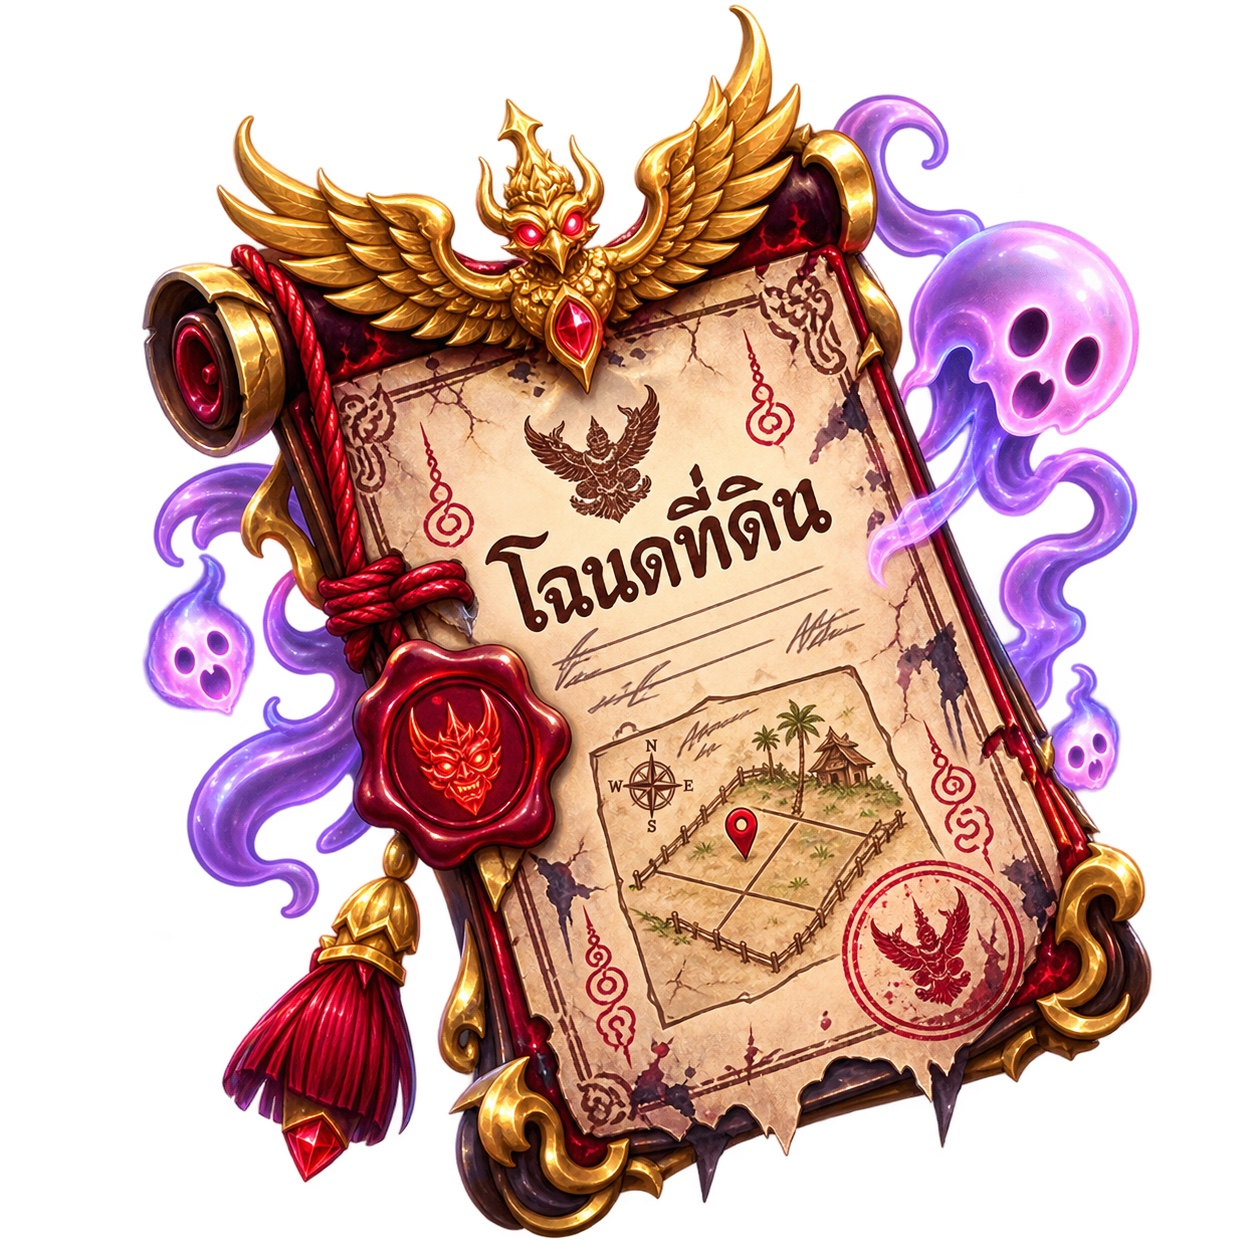
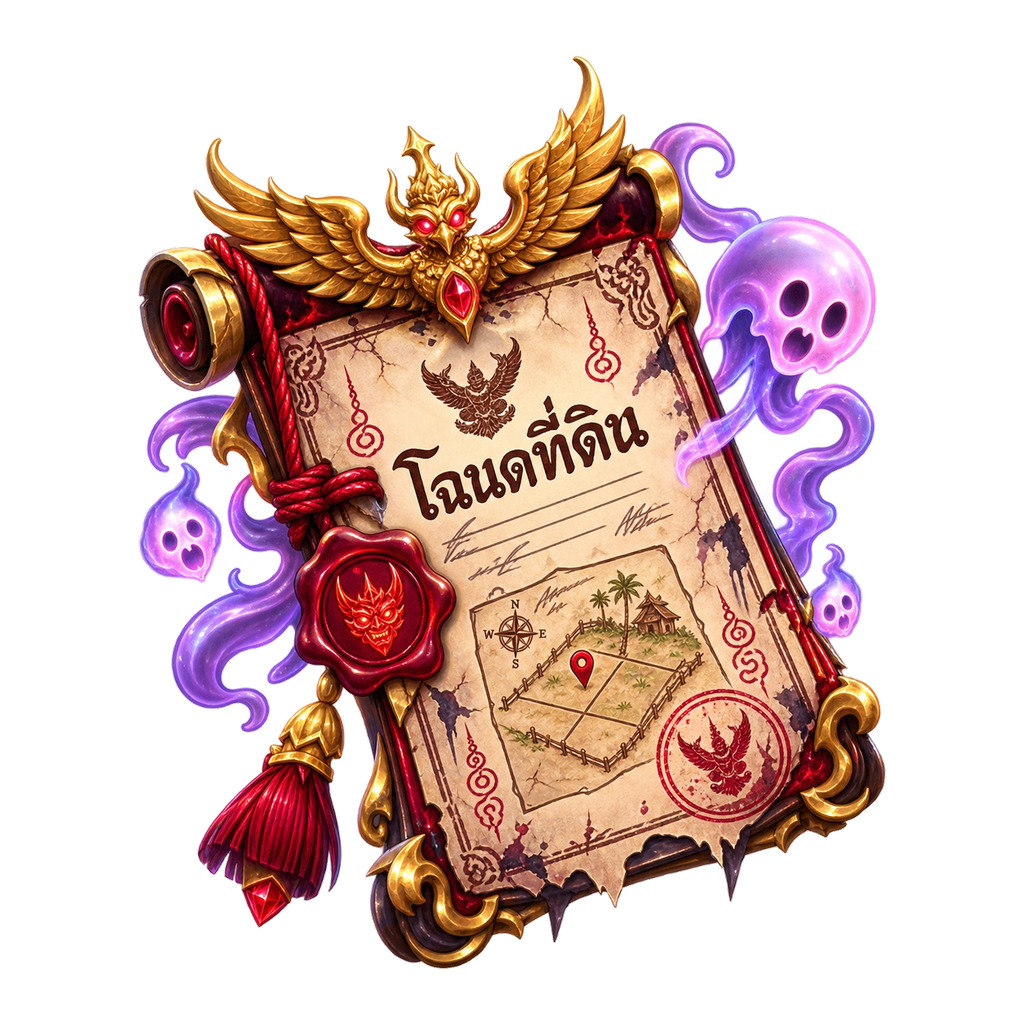
Add files via upload

diff --git a/game.js b/game.js
@@ -11500,7 +11500,7 @@ console.info("YAINOO CURRENT 20260814 patch loaded");
   const DAY=24*60*60*1000, HOUR=60*60*1000, MIN=60*1000;
   const SATAN_KEY="satanWings", DEED_KEY="landDeed", ANGEL_KEY="angelWingCapsule";
   const SATAN_ITEM={name:"ปีกซาตาน",image:"item-satan-wings.png?v=1",price:99};
-  const DEED_ITEM={name:"โฉนดที่ดินขอคืนวัดได้บ่",image:"item-land-deed.png?v=1",price:129};
+  const DEED_ITEM={name:"โฉนดที่ดินขอคืนวัดได้บ่",image:"land-deed.png?v=3",price:129};
   const DAILY_KEY=()=>currentBangkokDateKey();
   const rand=(a,b)=>Math.floor(Math.random()*(b-a+1))+a;
   function esc(s){return typeof safeHtml==="function"?safeHtml(String(s??"")):String(s??"")}
@@ -11614,7 +11614,7 @@ console.info("YAINOO CURRENT 20260814 patch loaded");
   }
   async function useDeed(index){
     if(!visitContext)return;const count=Number((ownState||state)?.specials?.[DEED_KEY])||0;if(!count)return message("คุณไม่มีโฉนดที่ดิน","ไปซื้อที่ร้านค้า → ของพิเศษก่อนนะคะ");
-    $("modalContent").innerHTML=`<section class="feature-panel ynu-confirm"><img src="${DEED_ITEM.image}" alt="โฉนด"><h2>${DEED_ITEM.name}</h2><p>ใช้โฉนด Take Over แปลงนี้ 2 ชั่วโมงหรือไม่</p><div><button id="ynuDeedYes">ใช้โฉนด</button><button id="ynuDeedNo">ยกเลิก</button></div></section>`;$("ynuDeedNo").onclick=closeModal;$("ynuDeedYes").onclick=async()=>{try{const {db,fs}=await getFirebaseContext(),gRef=fs.doc(db,"gardens",visitContext.memberKey),sRef=fs.doc(db,"saves",currentMemberKey);let next,plots;await fs.runTransaction(db,async tx=>{const [g,o]=await Promise.all([tx.get(gRef),tx.get(sRef)]);if(!g.exists()||!o.exists())throw new Error("ข้อมูลไม่พร้อม");const own=normalizeState(o.data(),currentMember);if(Number(own.specials[DEED_KEY]||0)<1)throw new Error("คุณไม่มีโฉนดที่ดิน");plots=(g.data().plots||[]).map(normalizePlot);while(plots.length<PLOT_COUNT)plots.push(emptyPlot());const now=NOW(),active=plots.filter(p=>p?.takeover?.by===currentMemberKey&&Number(p.takeover.until)>now).length;if(active>=3)throw new Error("คุณ Take Over ฟาร์มของเพื่อนคนนี้ครบ 3 แปลงแล้ว");const p=plots[index];if(p?.crop||takeoverActive(p))throw new Error("ใช้ได้เฉพาะแปลงว่างเท่านั้น");plots[index]={...emptyPlot(),takeover:{by:currentMemberKey,byName:currentProfileDisplayName(),until:now+2*HOUR}};own.specials[DEED_KEY]-=1;next=own;tx.set(gRef,{memberKey:visitContext.memberKey,displayName:visitContext.name,plots:cloneData(plots),updatedAt:fs.serverTimestamp()},{merge:true});tx.set(sRef,{...cloneData(own),activeSessionId:cloudSessionId,updatedAt:fs.serverTimestamp()},{merge:false})});Y26_applyOwnState(next);state.plots=plots.map(normalizePlot);closeModal();draw();showWeatherToast("📜 Take Over แปลงนี้ 2 ชั่วโมงแล้ว") }catch(e){message("ใช้โฉนดไม่ได้",e.message||"กรุณาลองใหม่")}};openModal();
+    $("modalContent").innerHTML=`<section class="feature-panel ynu-confirm ynu-deed-confirm"><img class="ynu-deed-preview" src="${DEED_ITEM.image}" alt="โฉนด"><h2>${DEED_ITEM.name}</h2><p>ใช้โฉนด Take Over แปลงนี้ 2 ชั่วโมงหรือไม่</p><div><button id="ynuDeedYes">ใช้โฉนด</button><button id="ynuDeedNo">ยกเลิก</button></div></section>`;$("ynuDeedNo").onclick=closeModal;$("ynuDeedYes").onclick=async()=>{try{const {db,fs}=await getFirebaseContext(),gRef=fs.doc(db,"gardens",visitContext.memberKey),sRef=fs.doc(db,"saves",currentMemberKey);let next,plots;await fs.runTransaction(db,async tx=>{const [g,o]=await Promise.all([tx.get(gRef),tx.get(sRef)]);if(!g.exists()||!o.exists())throw new Error("ข้อมูลไม่พร้อม");const own=normalizeState(o.data(),currentMember);if(Number(own.specials[DEED_KEY]||0)<1)throw new Error("คุณไม่มีโฉนดที่ดิน");plots=(g.data().plots||[]).map(normalizePlot);while(plots.length<PLOT_COUNT)plots.push(emptyPlot());const now=NOW(),active=plots.filter(p=>p?.takeover?.by===currentMemberKey&&Number(p.takeover.until)>now).length;if(active>=3)throw new Error("คุณ Take Over ฟาร์มของเพื่อนคนนี้ครบ 3 แปลงแล้ว");const p=plots[index];if(p?.crop||takeoverActive(p))throw new Error("ใช้ได้เฉพาะแปลงว่างเท่านั้น");plots[index]={...emptyPlot(),takeover:{by:currentMemberKey,byName:currentProfileDisplayName(),until:now+2*HOUR}};own.specials[DEED_KEY]-=1;next=own;tx.set(gRef,{memberKey:visitContext.memberKey,displayName:visitContext.name,plots:cloneData(plots),updatedAt:fs.serverTimestamp()},{merge:true});tx.set(sRef,{...cloneData(own),activeSessionId:cloudSessionId,updatedAt:fs.serverTimestamp()},{merge:false})});Y26_applyOwnState(next);state.plots=plots.map(normalizePlot);closeModal();draw();showWeatherToast("📜 Take Over แปลงนี้ 2 ชั่วโมงแล้ว") }catch(e){message("ใช้โฉนดไม่ได้",e.message||"กรุณาลองใหม่")}};openModal();
   }
 
   async function takeoverWater(index){

diff --git a/style.css b/style.css
@@ -4151,3 +4151,148 @@ html.standalone-app .sprinkler-button{translate:0 var(--standalone-safe-top)}htm
 
 /* ถ้าเซิร์ฟเวอร์ยังมีไฟล์ผลแข่งเป็น JPG ให้พื้นขาวกลืนกับแผงแทนการเห็นสี่เหลี่ยมขาว */
 .ynu-arena-status-icon img[src*=".jpg"]{mix-blend-mode:multiply!important}
+
+
+/* =====================================================================
+   TAKE OVER HOTFIX — compact modal + true transparent deed icon
+   ===================================================================== */
+
+/* ไอคอนโฉนดบนแปลง: ขนาดมาตรฐานเดียวกับบัวรดน้ำ/หนอน */
+.ynu-deed-overlay,
+.status-badge.ynu-deed-overlay{
+  right:1%!important;
+  top:3%!important;
+  width:clamp(30px,7.2vw,55px)!important;
+  height:clamp(30px,7.2vw,55px)!important;
+  max-width:55px!important;
+  max-height:55px!important;
+  object-fit:contain!important;
+  object-position:center!important;
+  padding:0!important;
+  margin:0!important;
+  border:0!important;
+  border-radius:0!important;
+  background:transparent!important;
+  box-shadow:none!important;
+  filter:drop-shadow(0 4px 5px rgba(38,18,45,.52))
+         drop-shadow(0 1px 1px rgba(255,231,174,.34))!important;
+}
+
+/* รูปโฉนดในหน้าต่างยืนยัน: ไม่มีกล่องขาว */
+.ynu-deed-confirm .ynu-deed-preview{
+  width:92px!important;
+  height:92px!important;
+  max-width:92px!important;
+  max-height:92px!important;
+  object-fit:contain!important;
+  background:transparent!important;
+  border:0!important;
+  border-radius:0!important;
+  box-shadow:none!important;
+  filter:drop-shadow(0 7px 7px rgba(49,24,57,.26))!important;
+}
+
+/* หน้าต่างจัดการแปลง Take Over ต้องกะทัดรัด ไม่กินเต็มจอ */
+.ynu-takeover-action{
+  width:min(420px,100%)!important;
+  max-width:420px!important;
+  max-height:72dvh!important;
+  margin:0 auto!important;
+  padding:4px 2px 2px!important;
+  overflow:auto!important;
+  text-align:center!important;
+}
+.ynu-takeover-action h2{
+  margin:2px 0 5px!important;
+  font-size:clamp(18px,5vw,24px)!important;
+}
+.ynu-takeover-action>p{
+  margin:3px auto 7px!important;
+  max-width:95%!important;
+  font-size:11px!important;
+  line-height:1.4!important;
+}
+.ynu-takeover-action .primary-spooky-action,
+.ynu-takeover-action .secondary-action{
+  width:min(270px,90%)!important;
+  min-height:36px!important;
+  margin:5px auto!important;
+  padding:7px 10px!important;
+  font-size:11px!important;
+  border-radius:12px!important;
+}
+
+/* ไอเท็มเร่งโต: ห้ามใช้ขนาดจริงของรูป เพราะจะขยายเต็ม modal */
+.ynu-take-boost-grid{
+  width:100%!important;
+  max-height:42dvh!important;
+  margin:7px auto 0!important;
+  padding:2px!important;
+  display:grid!important;
+  grid-template-columns:repeat(2,minmax(0,1fr))!important;
+  gap:7px!important;
+  overflow:auto!important;
+}
+.ynu-take-boost-grid>button{
+  min-width:0!important;
+  min-height:68px!important;
+  padding:6px!important;
+  border:1px solid rgba(172,126,79,.48)!important;
+  border-radius:12px!important;
+  background:linear-gradient(180deg,#fff6e9,#ead7c1)!important;
+  color:#4d3155!important;
+  display:flex!important;
+  align-items:center!important;
+  gap:6px!important;
+  text-align:left!important;
+  box-shadow:0 4px 10px rgba(52,28,60,.10)!important;
+  overflow:hidden!important;
+}
+.ynu-take-boost-grid>button>img{
+  flex:0 0 52px!important;
+  width:52px!important;
+  height:52px!important;
+  max-width:52px!important;
+  max-height:52px!important;
+  object-fit:contain!important;
+  object-position:center!important;
+  margin:0!important;
+  padding:0!important;
+  border:0!important;
+  border-radius:8px!important;
+  background:transparent!important;
+  filter:drop-shadow(0 3px 3px rgba(42,23,50,.20))!important;
+}
+.ynu-take-boost-grid>button>span{
+  min-width:0!important;
+  display:block!important;
+  font-size:10px!important;
+  font-weight:900!important;
+  line-height:1.25!important;
+}
+.ynu-take-boost-grid>button>span>small{
+  display:block!important;
+  margin-top:2px!important;
+  font-size:8px!important;
+  font-weight:700!important;
+  opacity:.82!important;
+  line-height:1.25!important;
+}
+
+/* หน้าเลือกเมล็ดใน Take Over ให้เล็กและพอดีจอเช่นกัน */
+.ynu-seed-grid{
+  max-height:48dvh!important;
+}
+.ynu-seed-grid img{
+  width:48px!important;
+  height:48px!important;
+  max-width:48px!important;
+  max-height:48px!important;
+  background:transparent!important;
+}
+
+@media(max-width:390px){
+  .ynu-take-boost-grid{grid-template-columns:1fr 1fr!important;gap:6px!important}
+  .ynu-take-boost-grid>button{min-height:62px!important;padding:5px!important}
+  .ynu-take-boost-grid>button>img{flex-basis:46px!important;width:46px!important;height:46px!important;max-width:46px!important;max-height:46px!important}
+}

diff --git a/index.html b/index.html
@@ -11,7 +11,7 @@
   <link rel="apple-touch-icon" href="apple-touch-icon.png">
   <link rel="icon" type="image/png" sizes="192x192" href="icon-192.png">
   <title>ในสวนของยัยหนู x ปลูกผักแบบเปรตเปรต</title>
-  <link rel="stylesheet" href="style.css?v=150">
+  <link rel="stylesheet" href="style.css?v=151">
 </head>
 <body>
   <main id="app">
@@ -287,6 +287,6 @@
       if(standalone) document.documentElement.classList.add("standalone-app");
     })();
   </script>
-  <script src="game.js?v=166"></script>
+  <script src="game.js?v=167"></script>
 </body>
 </html>
